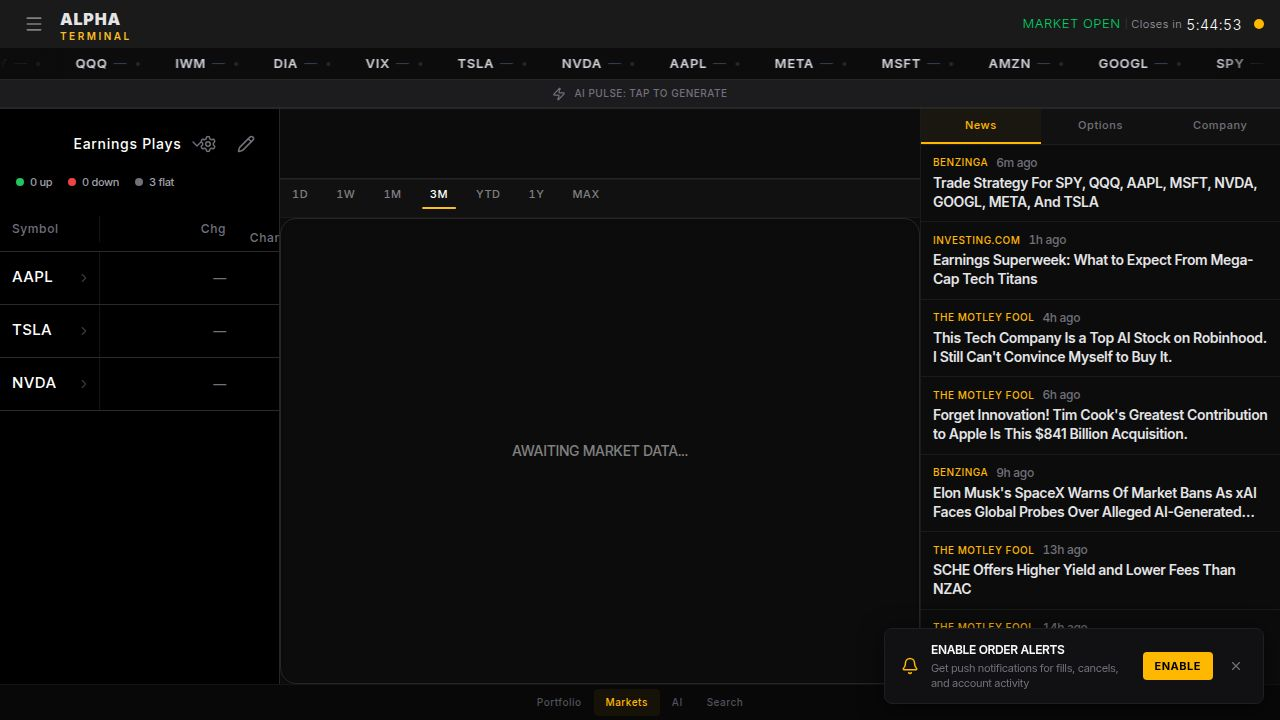
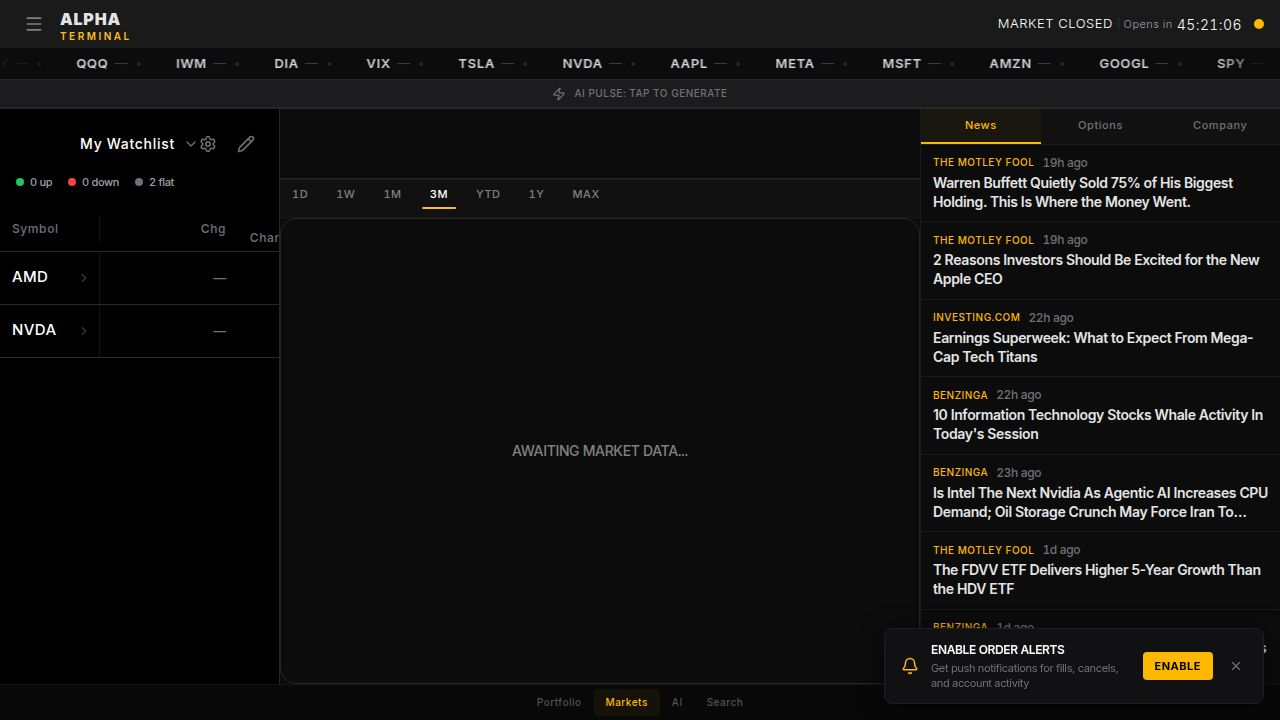
Add synchronized watchlists across devices with automatic syncing
Implement a new API for managing terminal watchlists, including GET and PUT endpoints. Update the client store to load watchlists from the server on mount and automatically sync local changes to the server with debounced requests. A new database table `terminal_watchlists` is introduced to store this data.

Replit-Commit-Author: Agent
Replit-Commit-Session-Id: ce31b7c7-225b-4589-b492-13e2b9636343
Replit-Commit-Checkpoint-Type: full_checkpoint
Replit-Commit-Event-Id: b6d473f4-3440-4dc2-8507-3d178bbaf0ce
Replit-Commit-Screenshot-Url: https://storage.googleapis.com/screenshot-production-us-central1/d7560ff0-838d-4863-b537-48efa1e88fdf/ce31b7c7-225b-4589-b492-13e2b9636343/ydIlcc5
Replit-Helium-Checkpoint-Created: true

diff --git a/artifacts/alpha-terminal/src/lib/store.ts b/artifacts/alpha-terminal/src/lib/store.ts
@@ -1,5 +1,58 @@
 import { create } from 'zustand';
 import { persist } from 'zustand/middleware';
+import { fetchWithAuth } from './fetchWithAuth';
+
+// ---------- Watchlist cloud-sync helpers ----------
+// Debounced pusher: any watchlist mutation schedules a push 1.5 s later.
+// Multiple rapid edits (e.g. adding several symbols) coalesce into one request.
+let _wlSyncTimer: ReturnType<typeof setTimeout> | null = null;
+function scheduleWatchlistSync() {
+  if (_wlSyncTimer) clearTimeout(_wlSyncTimer);
+  _wlSyncTimer = setTimeout(() => {
+    const { watchlists } = useTerminalStore.getState();
+    void pushWatchlistsToServer(watchlists);
+  }, 1500);
+}
+
+async function pushWatchlistsToServer(
+  watchlists: Record<string, { name: string; symbols: string[] }>,
+): Promise<void> {
+  try {
+    await fetchWithAuth('/api/watchlists/terminal', {
+      method: 'PUT',
+      headers: { 'Content-Type': 'application/json' },
+      body: JSON.stringify({ watchlists }),
+    });
+  } catch {
+    // Non-fatal: local state is source of truth when offline.
+  }
+}
+
+export async function loadWatchlistsFromServer(): Promise<void> {
+  try {
+    const res = await fetchWithAuth('/api/watchlists/terminal');
+    if (!res.ok) return;
+    const { watchlists } = (await res.json()) as {
+      watchlists: Record<string, { name: string; symbols: string[] }>;
+    };
+    if (!watchlists || Object.keys(watchlists).length === 0) {
+      // Server is empty on first login — upload the local state so it persists.
+      scheduleWatchlistSync();
+      return;
+    }
+    // Server wins: replace local watchlists with the server copy.
+    const current = useTerminalStore.getState();
+    const serverIds = Object.keys(watchlists);
+    const nextActiveId = serverIds.includes(current.activeWatchlistId)
+      ? current.activeWatchlistId
+      : serverIds.includes('default')
+        ? 'default'
+        : serverIds[0];
+    useTerminalStore.setState({ watchlists, activeWatchlistId: nextActiveId });
+  } catch {
+    // Offline or API error — keep local state.
+  }
+}
 
 export interface LiveQuote {
   symbol:       string;
@@ -531,6 +584,7 @@ export const useTerminalStore = create<TerminalState>()(
           if (!wl || wl.symbols.includes(upper)) return {};
           return { watchlists: { ...state.watchlists, [id]: { ...wl, symbols: [...wl.symbols, upper] } }, activeWatchlistId: id };
         });
+        scheduleWatchlistSync();
       },
       removeFromWatchlist: (symbol) => {
         const upper = symbol.toUpperCase();
@@ -540,6 +594,7 @@ export const useTerminalStore = create<TerminalState>()(
           if (!wl) return {};
           return { watchlists: { ...state.watchlists, [id]: { ...wl, symbols: wl.symbols.filter(s => s !== upper) } }, activeWatchlistId: id };
         });
+        scheduleWatchlistSync();
       },
       createWatchlist: (name) => {
         const id = `wl_${Date.now()}`;
@@ -547,6 +602,7 @@ export const useTerminalStore = create<TerminalState>()(
           watchlists: { ...state.watchlists, [id]: { name, symbols: [] } },
           activeWatchlistId: id,
         }));
+        scheduleWatchlistSync();
         return id;
       },
       deleteWatchlist: (id) => {
@@ -559,6 +615,7 @@ export const useTerminalStore = create<TerminalState>()(
             activeWatchlistId: state.activeWatchlistId === id ? "default" : state.activeWatchlistId,
           };
         });
+        scheduleWatchlistSync();
       },
       renameWatchlist: (id, name) => {
         set((state) => {
@@ -566,6 +623,7 @@ export const useTerminalStore = create<TerminalState>()(
           if (!wl) return {};
           return { watchlists: { ...state.watchlists, [id]: { ...wl, name } } };
         });
+        scheduleWatchlistSync();
       },
       setActiveWatchlist: (id) => set({ activeWatchlistId: id }),
 

diff --git a/artifacts/api-server/src/routes/watchlists.ts b/artifacts/api-server/src/routes/watchlists.ts
@@ -1,0 +1,76 @@
+import { Router, type IRouter } from "express";
+import { getAuth } from "@clerk/express";
+import { db, terminalWatchlistsTable } from "@workspace/db";
+import { eq } from "drizzle-orm";
+import { logger } from "../lib/logger.js";
+
+const DEV_BYPASS = process.env.DEV_BYPASS_AUTH === "true";
+const DEV_USER_ID = "dev_user_local";
+
+function getUserId(req: any): string {
+  if (DEV_BYPASS) return DEV_USER_ID;
+  try {
+    const auth = getAuth(req);
+    return auth?.userId ?? DEV_USER_ID;
+  } catch {
+    return DEV_USER_ID;
+  }
+}
+
+const router: IRouter = Router();
+
+router.get("/terminal", async (req, res) => {
+  try {
+    const userId = getUserId(req);
+    const rows = await db
+      .select()
+      .from(terminalWatchlistsTable)
+      .where(eq(terminalWatchlistsTable.userId, userId));
+
+    const watchlists: Record<string, { name: string; symbols: string[] }> = {};
+    for (const row of rows) {
+      watchlists[row.clientId] = { name: row.name, symbols: row.symbols };
+    }
+    res.json({ watchlists });
+  } catch (err: any) {
+    logger.error({ err: err.message }, "GET /watchlists/terminal failed");
+    res.status(500).json({ error: err.message });
+  }
+});
+
+router.put("/terminal", async (req, res) => {
+  try {
+    const userId = getUserId(req);
+    const { watchlists } = req.body as {
+      watchlists: Record<string, { name: string; symbols: string[] }>;
+    };
+
+    if (!watchlists || typeof watchlists !== "object") {
+      res.status(400).json({ error: "watchlists must be an object" });
+      return;
+    }
+
+    const entries = Object.entries(watchlists).map(([clientId, wl]) => ({
+      userId,
+      clientId,
+      name: String(wl.name ?? "Watchlist"),
+      symbols: Array.isArray(wl.symbols) ? wl.symbols.map(String) : [],
+    }));
+
+    await db.transaction(async (tx) => {
+      await tx
+        .delete(terminalWatchlistsTable)
+        .where(eq(terminalWatchlistsTable.userId, userId));
+      if (entries.length > 0) {
+        await tx.insert(terminalWatchlistsTable).values(entries);
+      }
+    });
+
+    res.json({ ok: true, count: entries.length });
+  } catch (err: any) {
+    logger.error({ err: err.message }, "PUT /watchlists/terminal failed");
+    res.status(500).json({ error: err.message });
+  }
+});
+
+export default router;

diff --git a/artifacts/alpha-terminal/src/pages/Terminal.tsx b/artifacts/alpha-terminal/src/pages/Terminal.tsx
@@ -8,7 +8,7 @@ import { MacroBar } from "@/components/MacroBar";
 import { TickerTape } from "@/components/TickerTape";
 import { SearchOverlay } from "@/components/SearchOverlay";
 import { MarketDataTabs, type MarketDataTab } from "@/components/MarketDataTabs";
-import { useTerminalStore } from "@/lib/store";
+import { useTerminalStore, loadWatchlistsFromServer } from "@/lib/store";
 import { useUICustomizationStore } from "@/lib/ui-customization-store";
 import { useUIThemeSync } from "@/hooks/useUIThemeSync";
 import { useGetPriceHistory } from "@workspace/api-client-react";
@@ -390,6 +390,9 @@ export default function TerminalPage() {
   useUIThemeSync();
   const isWide = useIsTablet();
   const isThreePanel = useIsDesktop();
+
+  // Load watchlists from server on mount so they're shared across devices.
+  useEffect(() => { void loadWatchlistsFromServer(); }, []);
 
   useEffect(() => {
     if (isWide && activeBottom === "watchlist") {

diff --git a/lib/db/src/schema/index.ts b/lib/db/src/schema/index.ts
@@ -567,3 +567,16 @@ export const equityIvCanonicalTable = pgTable("equity_iv_canonical", {
 ]);
 
 export type EquityIvCanonical = typeof equityIvCanonicalTable.$inferSelect;
+
+export const terminalWatchlistsTable = pgTable("terminal_watchlists", {
+  id: serial("id").primaryKey(),
+  userId: text("user_id").notNull(),
+  clientId: text("client_id").notNull(),
+  name: text("name").notNull(),
+  symbols: jsonb("symbols").$type<string[]>().notNull().default([]),
+  updatedAt: timestamp("updated_at").defaultNow().notNull(),
+}, (t) => [
+  uniqueIndex("terminal_watchlists_user_client").on(t.userId, t.clientId),
+]);
+
+export type TerminalWatchlist = typeof terminalWatchlistsTable.$inferSelect;

diff --git a/artifacts/api-server/src/routes/index.ts b/artifacts/api-server/src/routes/index.ts
@@ -17,6 +17,7 @@ import snapshotRouter from "./snapshot";
 import aiLabRouter from "./aiLab";
 import strategistV2Router from "./strategistV2";
 import flowTimeSalesRouter from "./flowTimeSales";
+import watchlistsRouter from "./watchlists";
 const router: IRouter = Router();
 
 router.use("/auth", authRouter);
@@ -37,5 +38,6 @@ router.use("/snapshot", snapshotRouter);
 router.use("/ai-lab", aiLabRouter);
 router.use("/strategist", strategistV2Router);
 router.use("/flow", flowTimeSalesRouter);
+router.use("/watchlists", watchlistsRouter);
 
 export default router;
